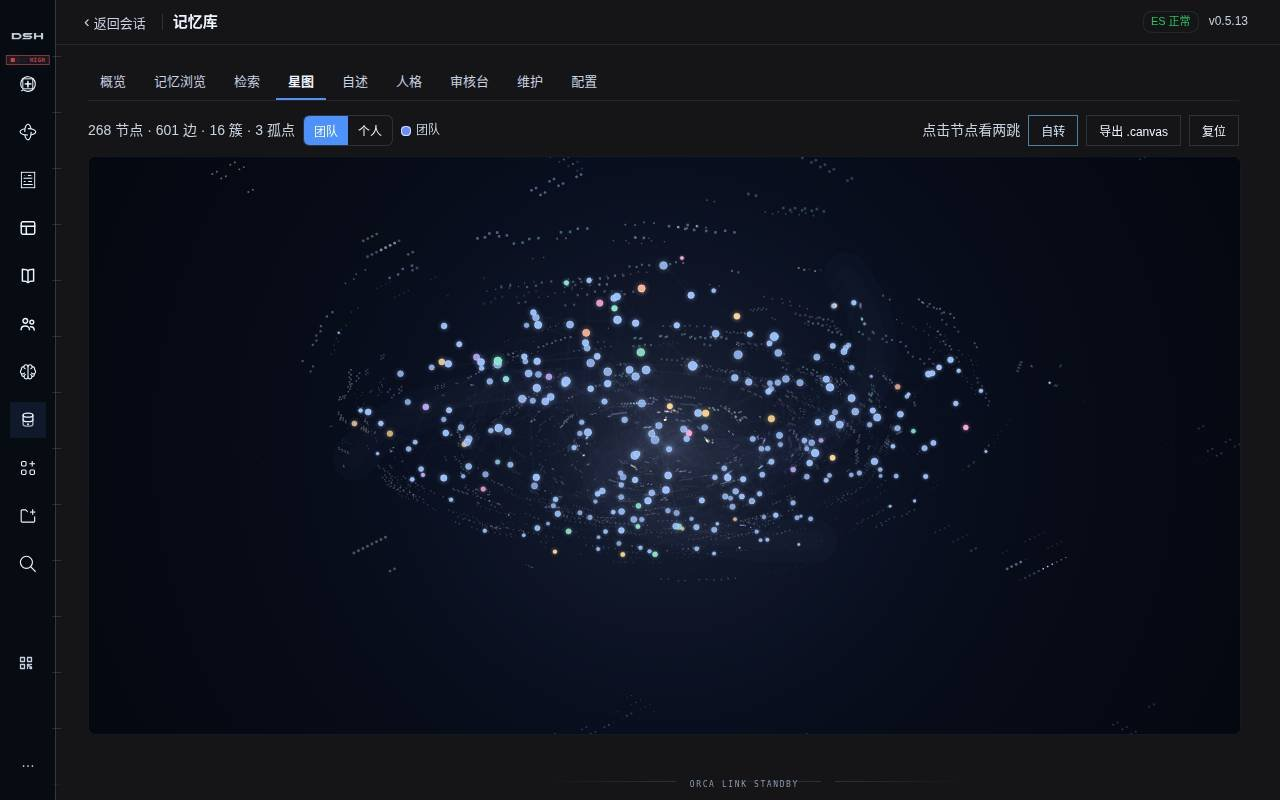
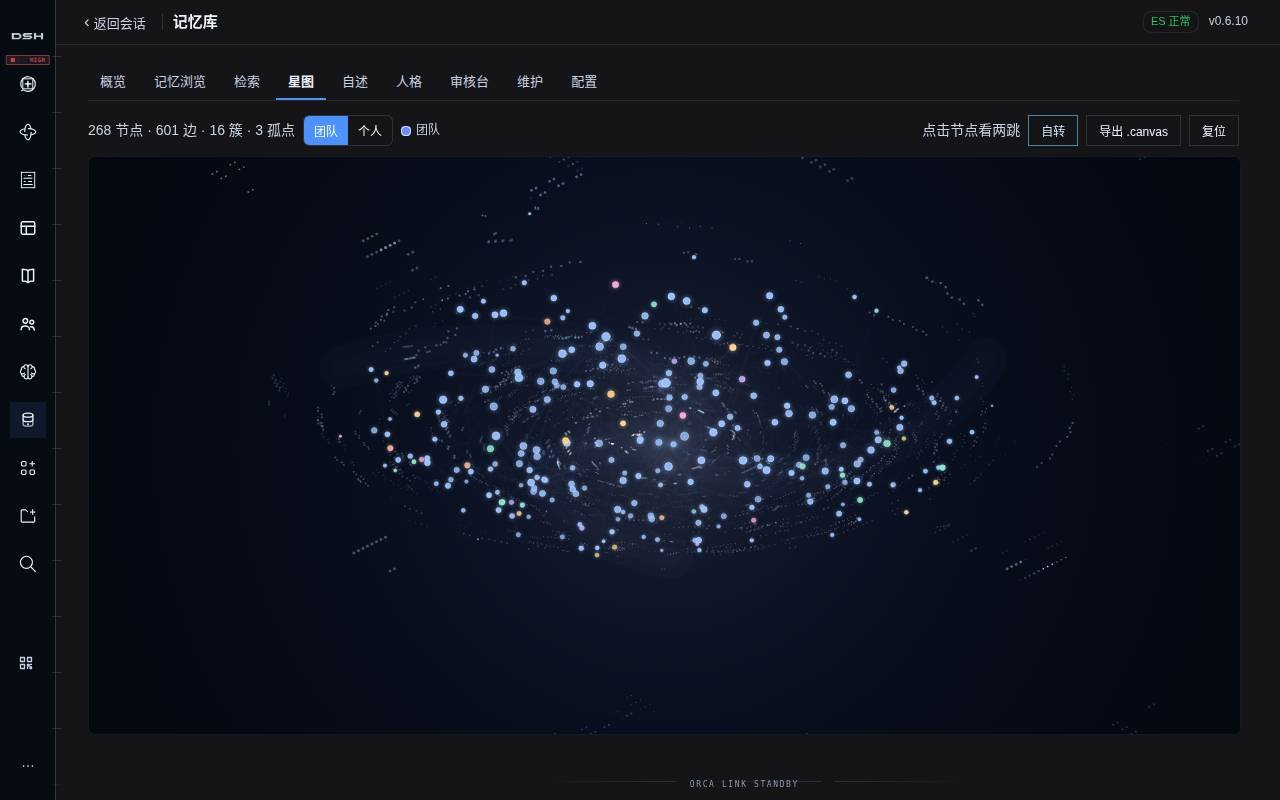
docs: README 星图配图换成重启后的 v0.6.10 截图
- 版本号现读：/overview 每次请求读 package.json，升级插件后页面不再显示旧版本，也不必为此重启整个 dsh web
- 重截 tab-3-graph.jpg：右上角为 v0.6.10、收起侧栏、关闭节点标签（不暴露内部项目名）

Changed region(s): [[0.25, 0.3125, 0.7812, 0.6875]]

diff --git a/panel/index.js b/panel/index.js
@@ -28,14 +28,18 @@ const AUDIT_INDEX = 'memory_audit'
  * 浏览器读不到文件系统，所以由 `/overview` 把版本回传给前端显示——
  * 页面上的版本号因此一定是「服务端真正加载的那份」，而不是 bundle 里过期的字符串。
  */
-const PANEL_VERSION = (() => {
+function readPanelVersion() {
   try {
     const pkg = JSON.parse(readFileSync(new URL('../package.json', import.meta.url), 'utf8'))
     return typeof pkg.version === 'string' && pkg.version.trim() !== '' ? pkg.version.trim() : 'unknown'
   } catch {
     return 'unknown'
   }
-})()
+}
+
+// 启动日志用一次（那时读到的就是本次加载的版本）；
+// 但 /overview 每次请求都现读——升级插件后页面不该还显示旧版本号，也不必为此重启整个 dsh web。
+const PANEL_VERSION = readPanelVersion()
 
 /** 配置默认值与 `src/config.ts` 保持一致（只用于面板兜底，不替代插件校验） */
 const DEFAULTS = {
@@ -724,7 +728,7 @@ async function handleOverview(ctx, res) {
     ok: true,
     value: {
       // 前端页脚显示它：部署后一眼能看出页面连的是哪一版服务端
-      version: PANEL_VERSION,
+      version: readPanelVersion(),
       es: {
         reachable: !health.error,
         // 读不到集群健康（权限不足），这里不编造状态；可达性由上面的索引读探测给出

diff --git a/panel/client.js b/panel/client.js
@@ -1565,7 +1565,7 @@ window.__ModuleLoader__.load({
      */
     const GALAXY_CAM = { yaw: -0.62, pitch: -0.46, dist: 840, focal: 1600 }
     const GALAXY_ORBIT_SPEED = 0.0009 // 每帧 0.0009 rad ≈ 两分钟一圈
-    const GALAXY_SHOW_LABELS = true // 截图配图时临时改成 false，可去掉项目名标签
+    const GALAXY_SHOW_LABELS = true // 截图配图时临时改成 false，避免带出项目名
 
     /** 光晕贴图缓存：每种颜色预渲染一张径向渐变，绘制时 drawImage 缩放 */
     const GLOW_SPRITES = new Map()
